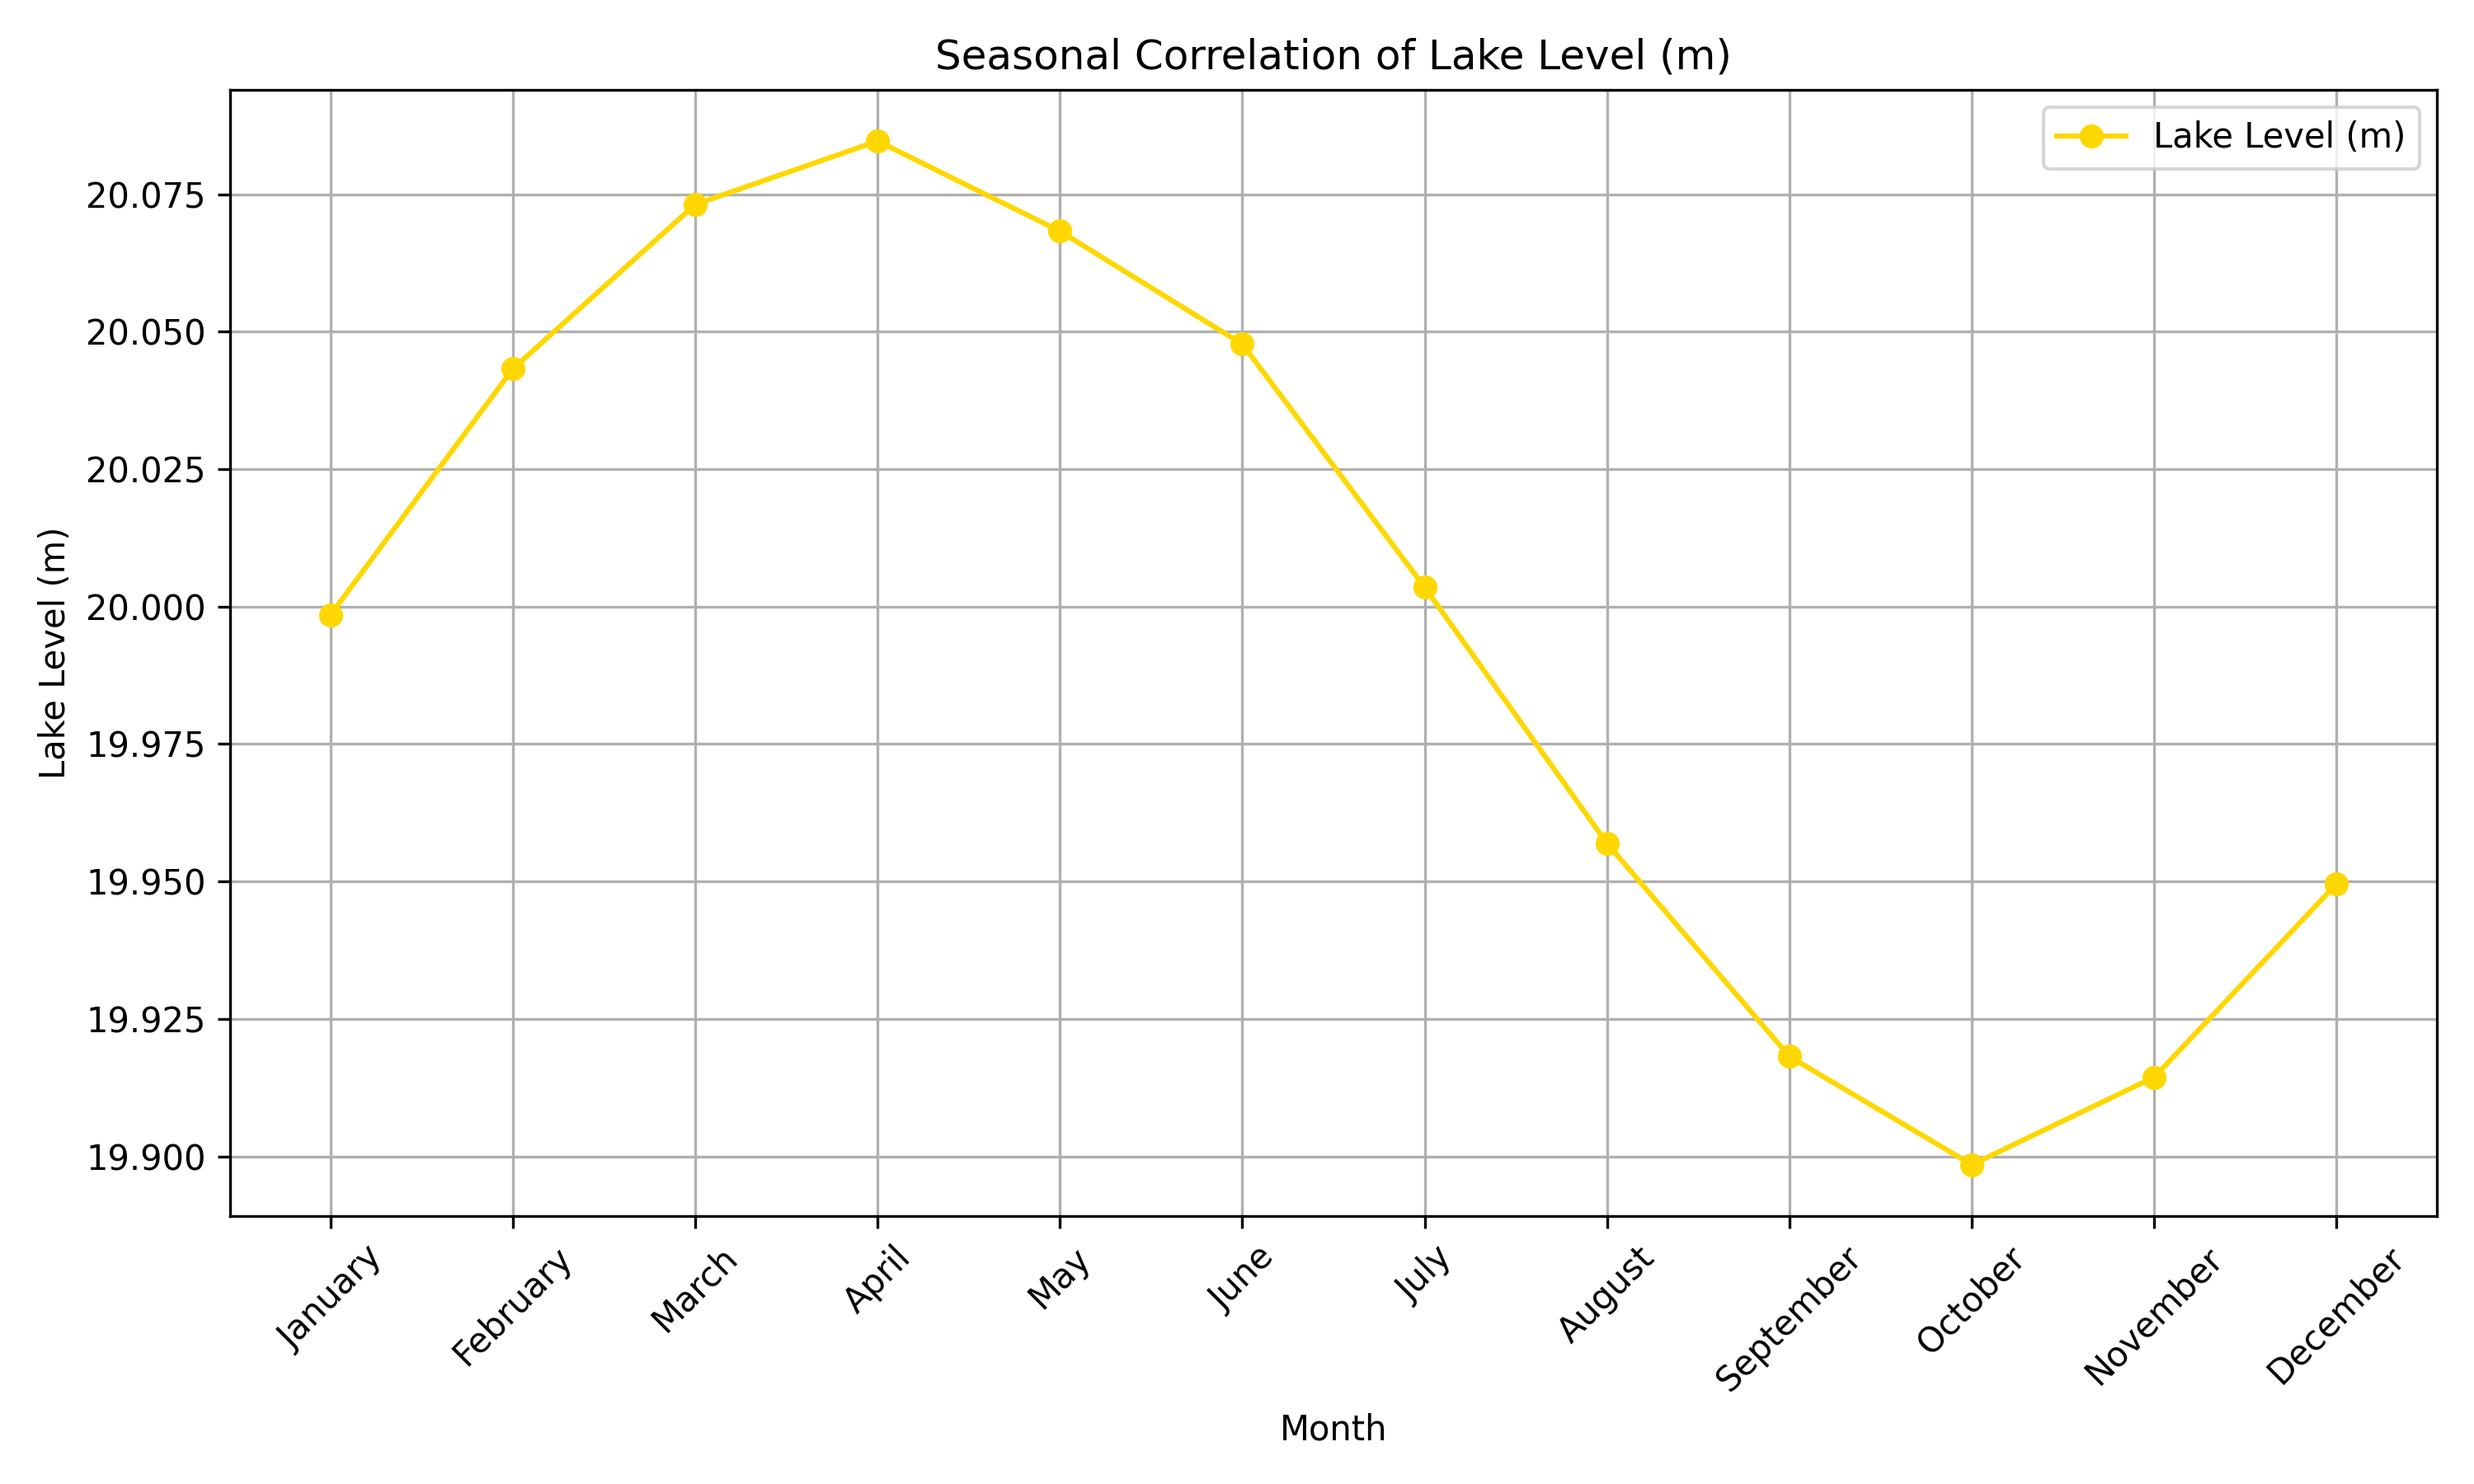
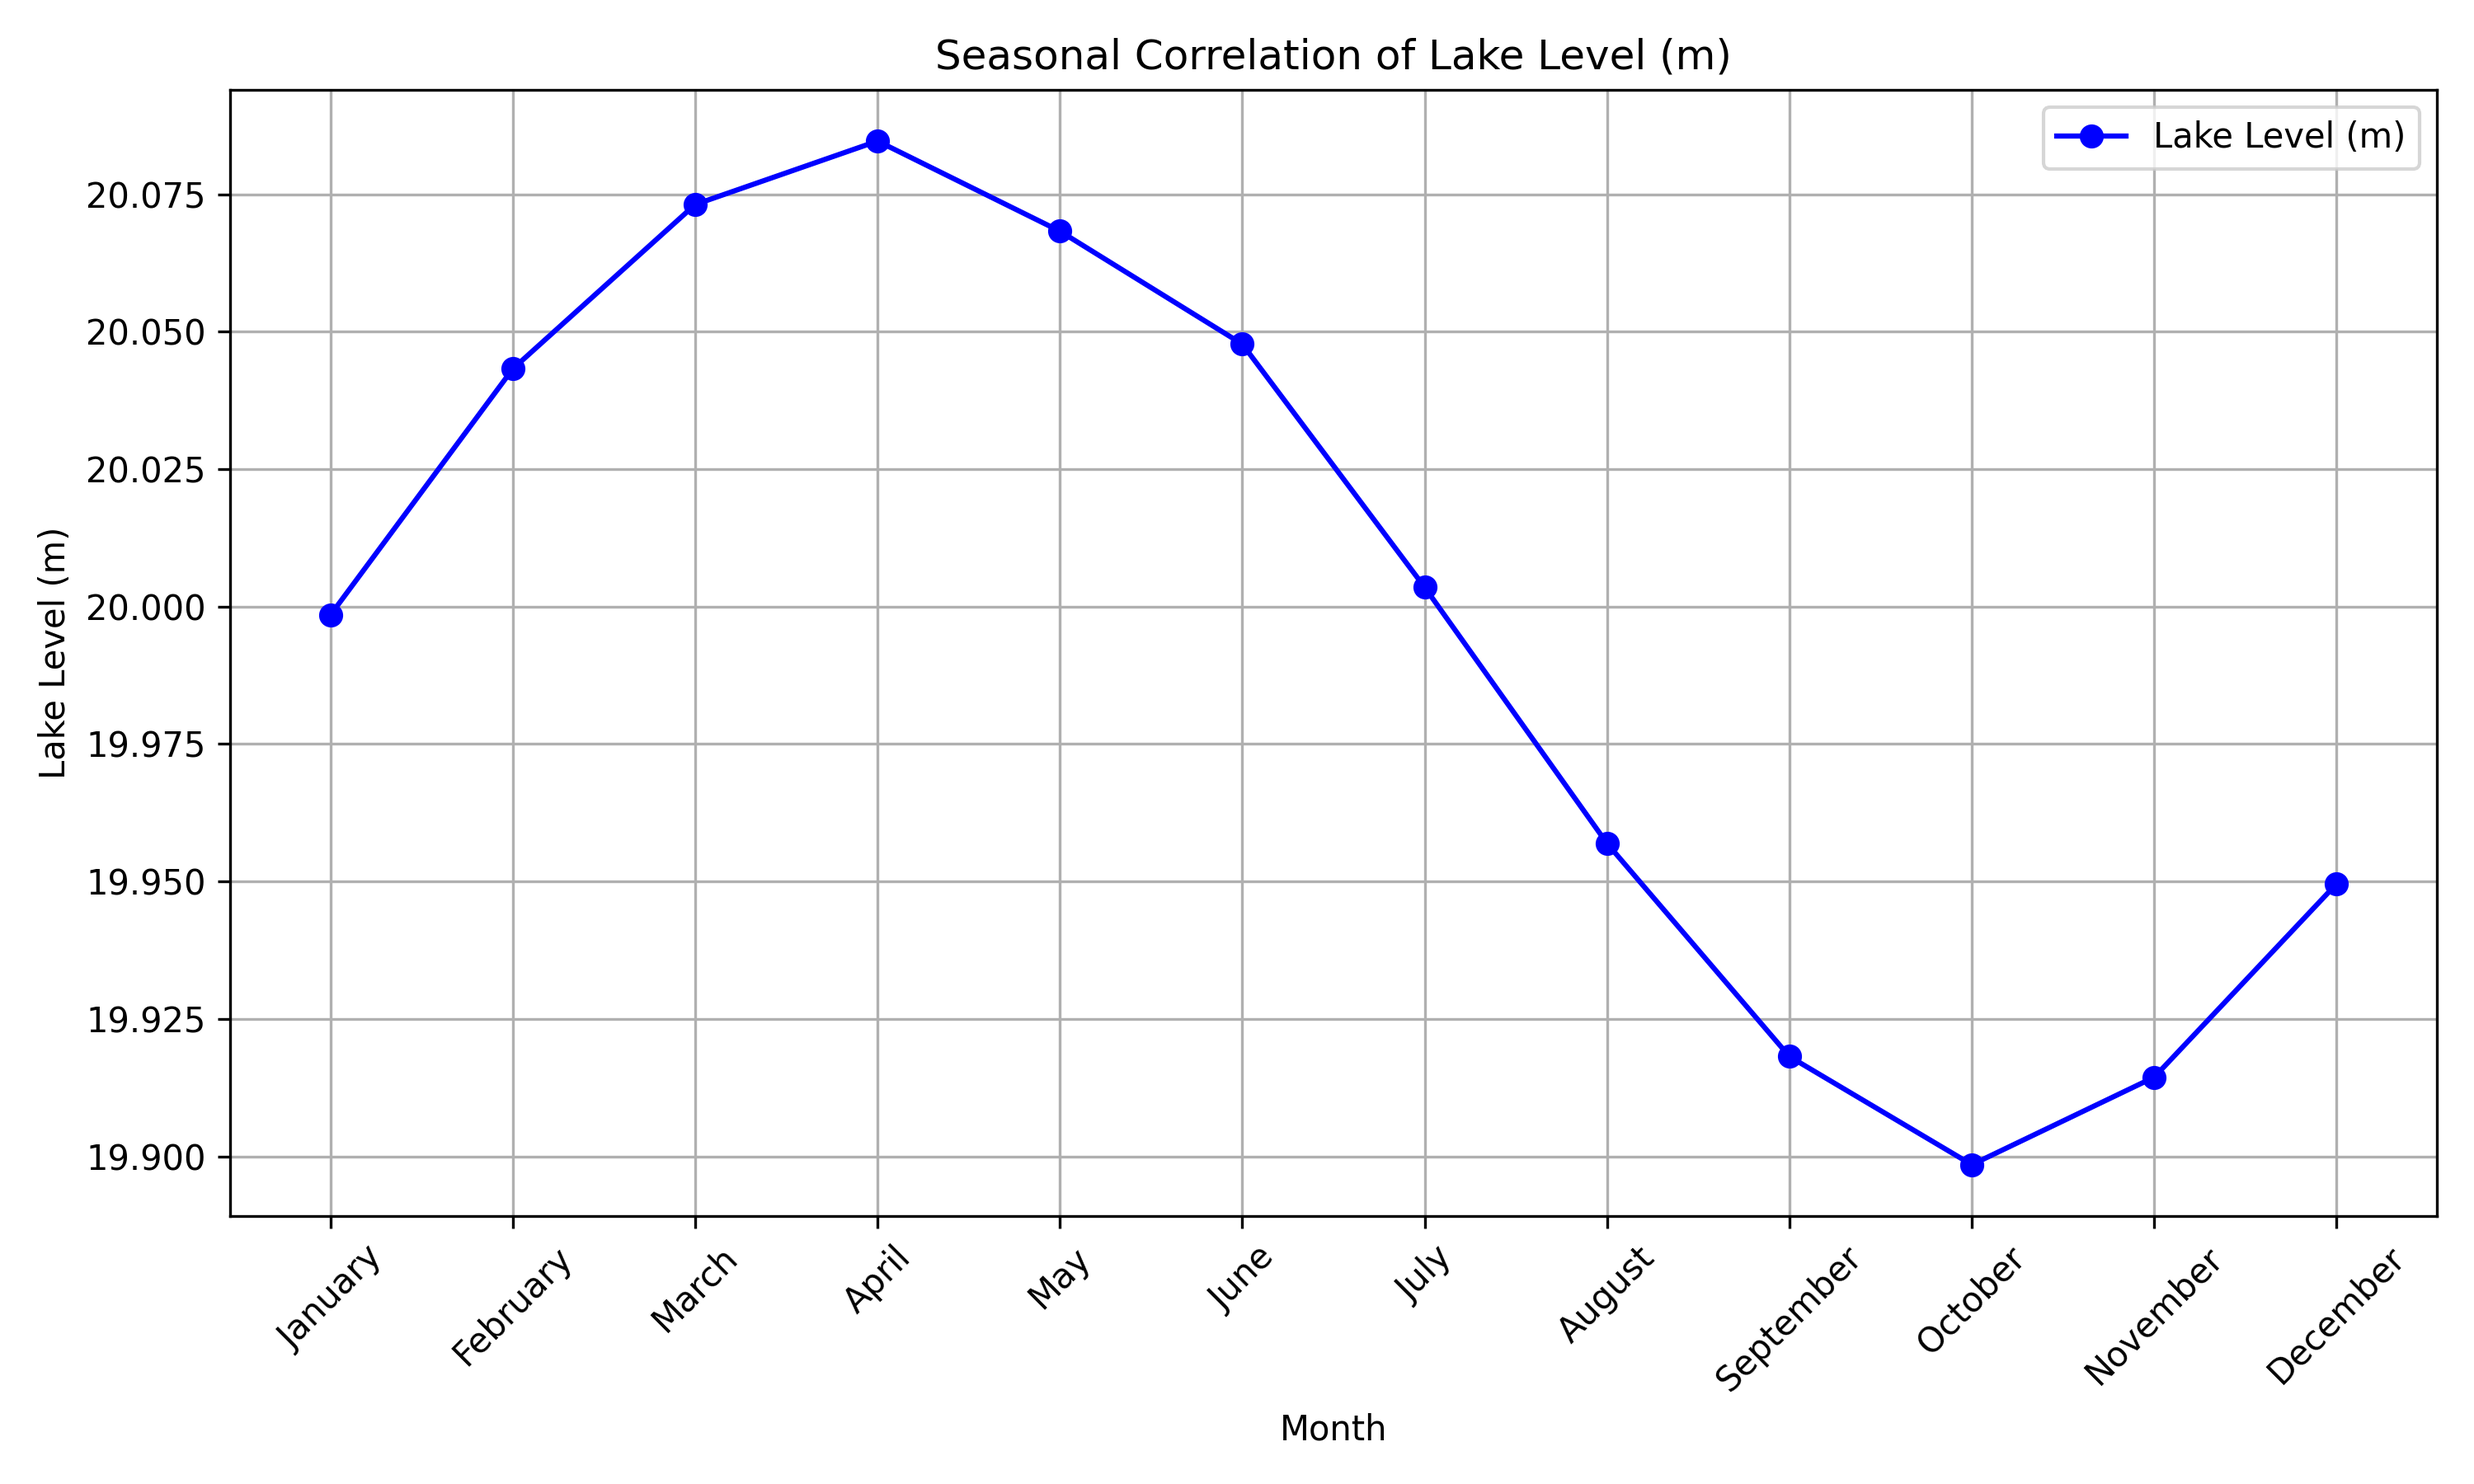
docs: update docs to include the new gui with a usage demo

diff --git a/src/app/cli.py b/src/app/cli.py
@@ -1,0 +1,145 @@
+import argparse
+import numpy as np
+import pandas as pd
+import matplotlib.dates as mdates
+import difflib
+import sys
+from pathlib import Path
+
+core_path = Path(__file__).resolve().parent.parent / "core"
+sys.path.append(str(core_path))
+
+import generate_plots
+import analysis
+
+def parse_arguments() -> argparse.Namespace:
+    """
+    Parse command-line arguments for the Lake Trend Analyzer.
+
+    Returns:
+        argparse.Namespace: Parsed arguments with input file and variables.
+    """
+    parser = argparse.ArgumentParser(description='Lake Trend Analyzer')
+
+    parser.add_argument('input', type=str, help='Input CSV file')
+    parser.add_argument('--variables', type=str, nargs='+', help='Variables to analyze')
+
+    return parser.parse_args()
+
+def load_data(filepath: str) -> pd.DataFrame:
+    """
+    Load CSV data from the given file path, cleaning stray commas and empty values.
+
+    Args:
+        filepath (str): Path to the CSV file.
+
+    Returns:
+        pd.DataFrame: Loaded data as a pandas DataFrame.
+    """
+    df = pd.read_csv(filepath, dtype=str)
+    df = df.map(lambda x: x.strip().replace(',', '') if isinstance(x, str) else x)
+    df = df.replace('', np.nan)
+    # Try to convert columns to numeric where possible (except 'date')
+    for col in df.columns:
+        if col.lower() != 'date':
+            df[col] = pd.to_numeric(df[col], errors='coerce')
+    return df
+
+def main() -> None:
+    """
+    Main function to run the Lake Trend Analyzer.
+
+    Returns:
+        None
+    """
+    trend_folder_path = 'output/timeseries_graphs/'
+    correlation_folder_path = 'output/correlation_graphs/'
+
+    arguments = parse_arguments()
+    filepath = arguments.input
+
+    data = load_data(filepath)
+    data.columns = [col.lower() for col in data.columns]  # Standardize column names to lowercase
+
+    # Remove rows with NaN in 'date'
+    data = data.dropna(subset=['date'])
+
+    # Convert 'date' to datetime if not already
+    if not np.issubdtype(data['date'].dtype, np.datetime64):
+        data['date'] = pd.to_datetime(data['date'], errors='coerce')
+    # Remove rows with NaT in 'date' after conversion
+    data = data.dropna(subset=['date'])
+
+    if arguments.variables is not None:
+        variables = arguments.variables
+        # Check for invalid variables and suggest closest matches
+        for var in variables:
+            if var not in data.columns:
+                close_matches = difflib.get_close_matches(var, data.columns, n=1)
+                suggestion = f" Did you mean '{close_matches[0]}'?" if close_matches else ""
+                raise ValueError(f"No variable '{var}' found in data.{suggestion}")
+    else:
+        variables = [col for col in data.columns if col != 'date']  # Use all columns except 'date'
+
+    analysis.forecast_future_lake_level(data, file_path='output/lake_level_forecast.txt')
+
+    use_months = len(data) > 1000
+    use_years = len(data) > 3000
+
+    for variable in variables:
+        # Remove rows with NaN for the variable (and lakelevel if needed) before plotting
+        if variable == 'lakelevel':
+            plot_data = data.dropna(subset=['date', 'lakelevel'])
+        else:
+            if use_years:
+                yearly = data.set_index('date').resample('YE')
+                plot_data = yearly[variable].mean().reset_index()
+                if 'lakelevel' in data.columns and variable != 'lakelevel':
+                    plot_data['lakelevel'] = yearly['lakelevel'].mean().values
+                year_counts = data.set_index('date').resample('YE').size().reset_index(name='count')
+                complete_years = year_counts[year_counts['count'] >= 365]['date']
+                plot_data = plot_data[plot_data['date'].isin(complete_years)].reset_index(drop=True)
+            elif use_months:
+                plot_data = data.set_index('date').resample('ME')[variable].mean().reset_index()
+                if 'lakelevel' in data.columns and variable != 'lakelevel':
+                    plot_data['lakelevel'] = data.set_index('date')['lakelevel'].resample('M').mean().values
+            else:
+                plot_data = data
+            # Remove rows with NaN for variable and lakelevel if present
+            subset_cols = ['date', variable]
+            if 'lakelevel' in plot_data.columns:
+                subset_cols.append('lakelevel')
+            plot_data = plot_data.dropna(subset=subset_cols)
+
+        if plot_data.empty:
+            print(f"Skipping plot for '{variable}' due to insufficient data.")
+            continue
+
+        generate_plots.plot_trend(plot_data, variable, trend_folder_path, use_years=use_years)
+
+        if variable != 'lakelevel':
+            if use_months:
+                monthly_data = data.set_index('date').resample('ME').mean().reset_index()
+                monthly_data = monthly_data.dropna(subset=[variable, 'lakelevel'])
+                if not monthly_data.empty:
+                    generate_plots.plot_correlation(monthly_data, variable, correlation_folder_path)
+                else:
+                    print(f"Skipping correlation plot for '{variable}' due to insufficient data.")
+            else:
+                corr_data = data.dropna(subset=[variable, 'lakelevel'])
+                if not corr_data.empty:
+                    generate_plots.plot_correlation(corr_data, variable, correlation_folder_path)
+                else:
+                    print(f"Skipping correlation plot for '{variable}' due to insufficient data.")
+
+    # For seasonal correlation, drop missing values
+    seasonal_data = data.dropna(subset=['date', 'lakelevel'])
+    if not seasonal_data.empty:
+        generate_plots.plot_seasonal_correlation(seasonal_data, correlation_folder_path)
+    else:
+        print("Skipping seasonal correlation plot due to insufficient data.")
+
+    print(f"Graphs saved to {trend_folder_path} and {correlation_folder_path}")
+
+if __name__ == '__main__':
+    main()

diff --git a/src/core/generate_plots.py b/src/core/generate_plots.py
@@ -190,7 +190,7 @@ def plot_seasonal_correlation(
     data['month'] = data['date'].dt.month  # Extract month from date
     monthly_means = data.groupby('month')['lakelevel'].mean().reset_index()  # Mean lake level per month
 
-    plt.plot(monthly_means['month'], monthly_means['lakelevel'], marker='o', color='gold', label=lake_level_label)
+    plt.plot(monthly_means['month'], monthly_means['lakelevel'], marker='o', color=VARIABLE_GRAPH_COLORS['lakelevel'], label=lake_level_label)
 
     # Use month names for x-tick labels
     plt.xticks(monthly_means['month'], monthly_means['month'].apply(lambda x: calendar.month_name[x]), rotation=45)

diff --git a/src/app/gui.py b/src/app/gui.py
@@ -50,7 +50,7 @@ class ImageLabel(QLabel):
 class MainWindow(QWidget):
     def __init__(self):
         super().__init__()
-        self.setWindowTitle("Lake Trend Analyzer")
+        self.setWindowTitle("Lake Trends Analyzer")
         self.resize(1100, 700)
         self.csv_path = DEFAULT_CSV
         self.param = None

diff --git a/tests/test_forecasting.py b/tests/test_forecasting.py
@@ -5,7 +5,7 @@ import io
 import sys
 import re
 
-from src.cli import main as cli_main
+from src.app import cli as cli_main
 
 class TestForecastFutureLakeLevelOutput(unittest.TestCase):
     def setUp(self):

diff --git a/README.md b/README.md
@@ -1,6 +1,6 @@
 # Lake Trends Analyzer
 
-**Lake Trends Analyzer** is a fast and modular Python app designed to extract insight from environmental data collected as part of the global **TOTCUS** water and climate research initiative.
+**Lake Trends Analyzer** is a fast, modular Python app with both a graphical user interface (GUI) and command-line interface (CLI) for extracting insights from environmental data collected as part of the global **TOTCUS** water and climate research initiative.
 
 Given a CSV of time-series measurements (lake level, temperature, humidity, precipitation, etc.), it automatically generates trend plots, correlation graphs, and lake level forecasts — enabling both exploratory analysis and actionable conclusions.
 
@@ -16,6 +16,14 @@ This project supports our school’s participation in **TOTCUS**, a research ini
 
 ## 🚀 Features
 
+- 🖥 **Graphical User Interface (GUI)**
+  - Intuitive, fully featured GUI for data selection, analysis, and visualization
+  - Easily select variables, view plots, and export results
+
+- 💻 **Command-Line Interface (CLI)**
+  - Scriptable CLI for automation and advanced users
+  - Supports variable selection and batch processing
+
 - 📈 **Automatic Graph Generation**
   - Time series plots for each variable with trendlines (seasonal graph feature included)
   - Correlation scatterplots (e.g. lake level vs. temperature), also with trendlines
@@ -28,10 +36,14 @@ This project supports our school’s participation in **TOTCUS**, a research ini
   - New variables can be added without modifying the code structure
 
 - 🎯 **Custom Output Control**
-  - Use the `--variables` flag to limit output to specific variables or generate all at once
+  - Select variables to analyze via GUI or CLI
 
 - ⚡ **Fast Python Backend**
   - Written entirely in Python with Matplotlib for plotting, ensuring compatibility and ease of use
+
+## 🎥 Demo
+
+![GUI Usage Demo](./gui_demo.gif)
 
 ---
 
@@ -42,25 +54,39 @@ This project supports our school’s participation in **TOTCUS**, a research ini
 
 For a compatible CSV structure, see [data/2020s/data_from_2024.csv](data/2020s/data_from_2024.csv.csv).
 
+---
+
 ## 🛠 How to Run
 
+### Using the GUI
+
 ```bash
-python src/main.py path/to/your.csv [--variables temperature humidity lakelevel]
+python src/app/gui.py
+```
+
+- Launches the graphical interface for interactive analysis.
+
+### Using the CLI
+
+```bash
+python src/app/cli.py path/to/your.csv [--variables temperature humidity lakelevel]
 ```
 
 Examples:
 
 - Generate all graphs:
-```bash
-python src/main.py data/data_since_1970.csv
-```
+  ```bash
+  python src/app/cli.py data/data_since_1970.csv
+  ```
 
 - Only analyze temperature and humidity:
-```bash
-python src/main.py data/data_since_1970.csv --variables temperature humidity
-```
+  ```bash
+  python src/app/cli.py data/data_since_1970.csv --variables temperature humidity
+  ```
 
-Supported variables include: `temperature`, `humidity`, `precipitation`, `windspeed`, and `lakelevel`.
+Supported variables include: `temperature`, `humidity`, `precipitation`, `windspeed`, `groundwater`,  and `lakelevel`.
+
+---
 
 ## 🧪 Example Output
 
@@ -93,13 +119,13 @@ Datasets are provided in the `data/` folder.
 
 Planned improvements include:
 
-- ✅ Unit tests (currently in development) for reliability and correctness
 - 📬 Automated email reports to project coordinators
+- 🌐 Further enhancements to analysis and prediction tools
 - 🖥 Simple Web UI or enhanced CLI-based data entry (under consideration)
 
 ---
 
 ## 🤝 Contributions
 
-This project was developed independently as part of a student contribution to the TOTCUS research effort. Collaboration and suggestions are welcome.
+This project was developed independently as part of a student contribution to the TOTCUS research effort. Collaboration and suggestions are welcome.  
 All rights reserved.
